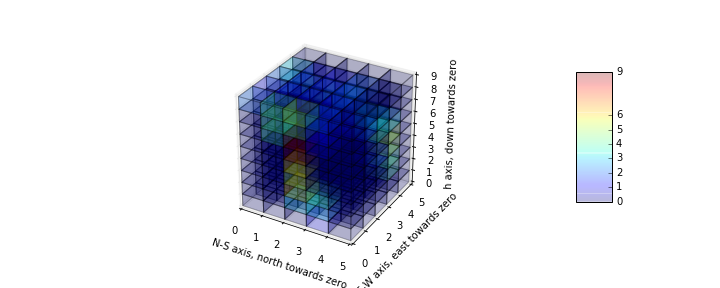
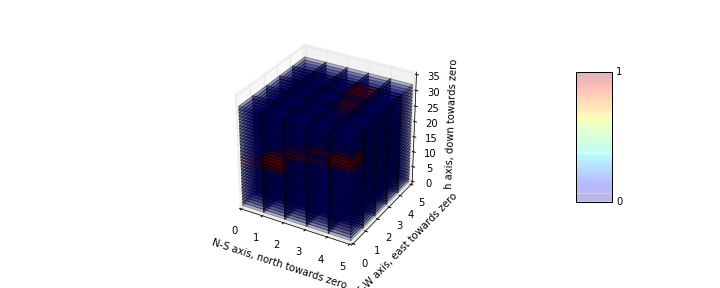
it actually works!1!! (The infinitley deep box, that is

diff --git a/workingFinal3d.py b/workingFinal3d.py
@@ -6,7 +6,7 @@ Created on Wed May 03 20:30:13 2017
 """
 
 import numpy as np
-import random
+
 from mpl_toolkits.mplot3d import Axes3D
 import numpy as np
 import matplotlib.pyplot as plt
@@ -72,7 +72,7 @@ def plotMatrix(ax, x, y, z, data, cmap="jet", cax=None, alpha=0.1):
 
 append = 0
 
-
+t=0
 L= 5
 H= 5
 W= 5
@@ -90,6 +90,7 @@ def advance_step(l,w,h,t):
     global path
     global aggregatePaths
     global append
+
     north =0
     south =0
     east =0
@@ -181,7 +182,7 @@ def advance_step(l,w,h,t):
                     h=h-1
               #l=l,w=w
     elif w == W-1 and l== L-1 and h!=0:
-               
+           
                 south =earth[l-1,w,h]
               
                 west =earth[l,w-1,h]
@@ -301,6 +302,7 @@ def advance_step(l,w,h,t):
                        path =  np.concatenate((np.zeros((L,W,1)),path),2) 
                        aggregatePaths =  np.concatenate((np.zeros((L,W,1)),aggregatePaths),2)
                        append+=1
+                       h+=1
                        down = earth[l,w,h-1]
                     nextIndex =  max(north,  east, west, down)
                     if nextIndex == north:
@@ -315,7 +317,10 @@ def advance_step(l,w,h,t):
                         w= w-1
                     elif nextIndex == down:
                         path[l,w,h-1]+= 1
-                        h=h-1
+                        if h>0:
+                            h=h-1
+                  
+                             
                     
     elif  w== 0 :
                     north = earth[l+1,w,h]
@@ -329,6 +334,7 @@ def advance_step(l,w,h,t):
                        path =  np.concatenate((np.zeros((L,W,1)),path),2) 
                        aggregatePaths =  np.concatenate((np.zeros((L,W,1)),aggregatePaths),2)
                        append+=1
+                       h+=1
                        down = earth[l,w,h-1]
                 
                     nextIndex =  max(north, south, east,  down)
@@ -344,7 +350,8 @@ def advance_step(l,w,h,t):
                
                     elif nextIndex == down:
                         path[l,w,h-1]+= 1
-                        h=h-1
+                        if h>0:
+                            h=h-1
                     
     elif   w == W-1:
                     north = earth[l+1,w,h]
@@ -358,6 +365,7 @@ def advance_step(l,w,h,t):
                        path =  np.concatenate((np.zeros((L,W,1)),path),2) 
                        aggregatePaths =  np.concatenate((np.zeros((L,W,1)),aggregatePaths),2)
                        append+=1
+                       h+=1
                        down = earth[l,w,h-1]
                 
                     nextIndex =  max(north, south,  west, down)
@@ -373,7 +381,8 @@ def advance_step(l,w,h,t):
                         w= w-1
                     elif nextIndex == down:
                         path[l,w,h-1] += 1
-                        h=h-1
+                        if h>0:
+                            h=h-1
                     
     elif   l== L-1 :
       
@@ -387,6 +396,8 @@ def advance_step(l,w,h,t):
                        earth =  np.concatenate((np.random.rand(L,W,1),earth),2)
                        path =  np.concatenate((np.zeros((L,W,1)),path),2)
                        append+=1
+                       h+=1
+                      
                        down = earth[l,w,h-1]
 
                     nextIndex =  max( south, east, west, down)
@@ -402,12 +413,14 @@ def advance_step(l,w,h,t):
                         w= w-1
                     elif nextIndex == down:
                         path[l,w,h-1]+= 1
-                        h=h-1
+                        if h>0:
+                            h=h-1
                     
           
             #need corneres
         
     if path[l,w,h]>1:
+                t=t-1
                 path[l,w,h]=path[l,w,h]-1
                 #eeror
                 print 'doubled back', l ,w, h
@@ -427,37 +440,40 @@ def advance_step(l,w,h,t):
                 
                     path[l,w,h+1] += -1
                 
-                t=t-1
+                
                 if(h!=0):
                     h=h-1
-                    path[l,w,h-1]+=1
+                    path[l,w,h]+=1
+                    print 'h!=0'
                 else:
                     h=h
                     earth =  np.concatenate((np.random.rand(L,W,1),earth),2)
                     path =  np.concatenate((np.zeros((L,W,1)),path),2)
                     aggregatePaths =  np.concatenate((np.zeros((L,W,1)),aggregatePaths),2)
                     append+=1
-                path[l,w,h]+=1
+                    path[l,w,h]+=1
+                    print 'h=0'
     return [l,w,h,t]
 
 
 
 
-timesteps =10
+timesteps =50
 
 #simulate rainfall event, run a trace from everywhere on the land surfac
-for i in range(0,L-1):
-    for j in range(0,W-1):
+for i in range(L-2,L-1):
+    for j in range(W-2,W-1):
         h=H+append-1
         l=i
         w=j
         path[l,w,h]=1
-        for t in range (0,timesteps):
+        t=0
+        while  t < timesteps:
            #central points
             print  l,w,h
-            print path.shape, earth.shape, aggregatePaths.shape
+        
             l,w,h,t =      advance_step(l,w,h,t) 
-                
+            t+=1    
         aggregatePaths =  aggregatePaths + path
         print np.sum(path)
     
